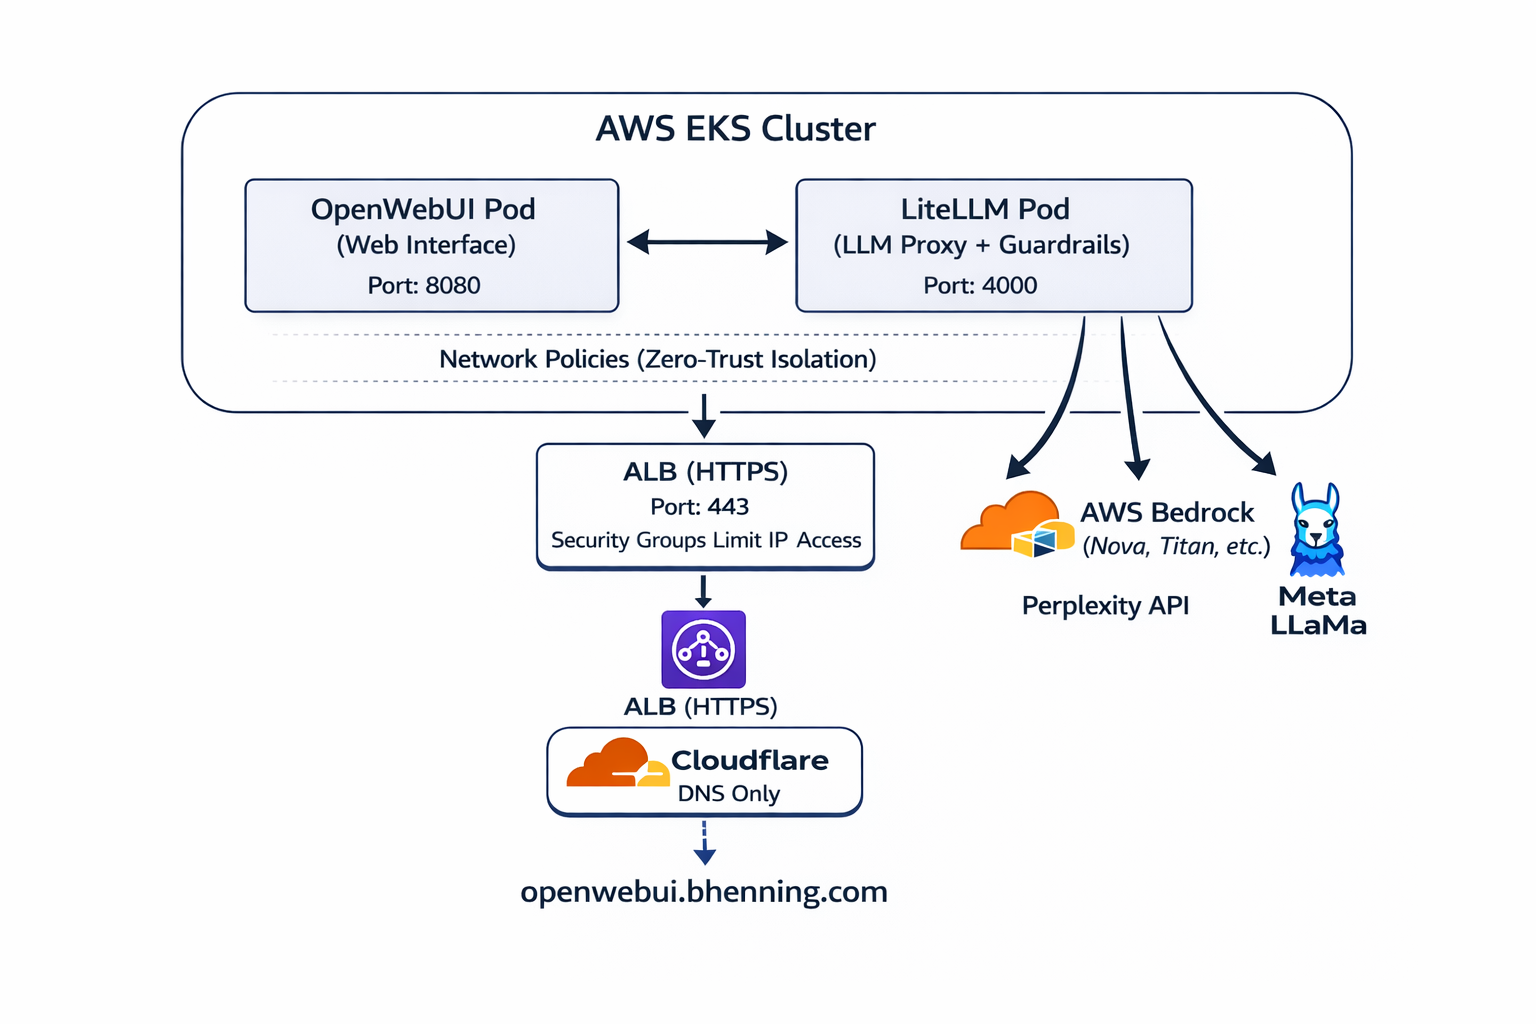
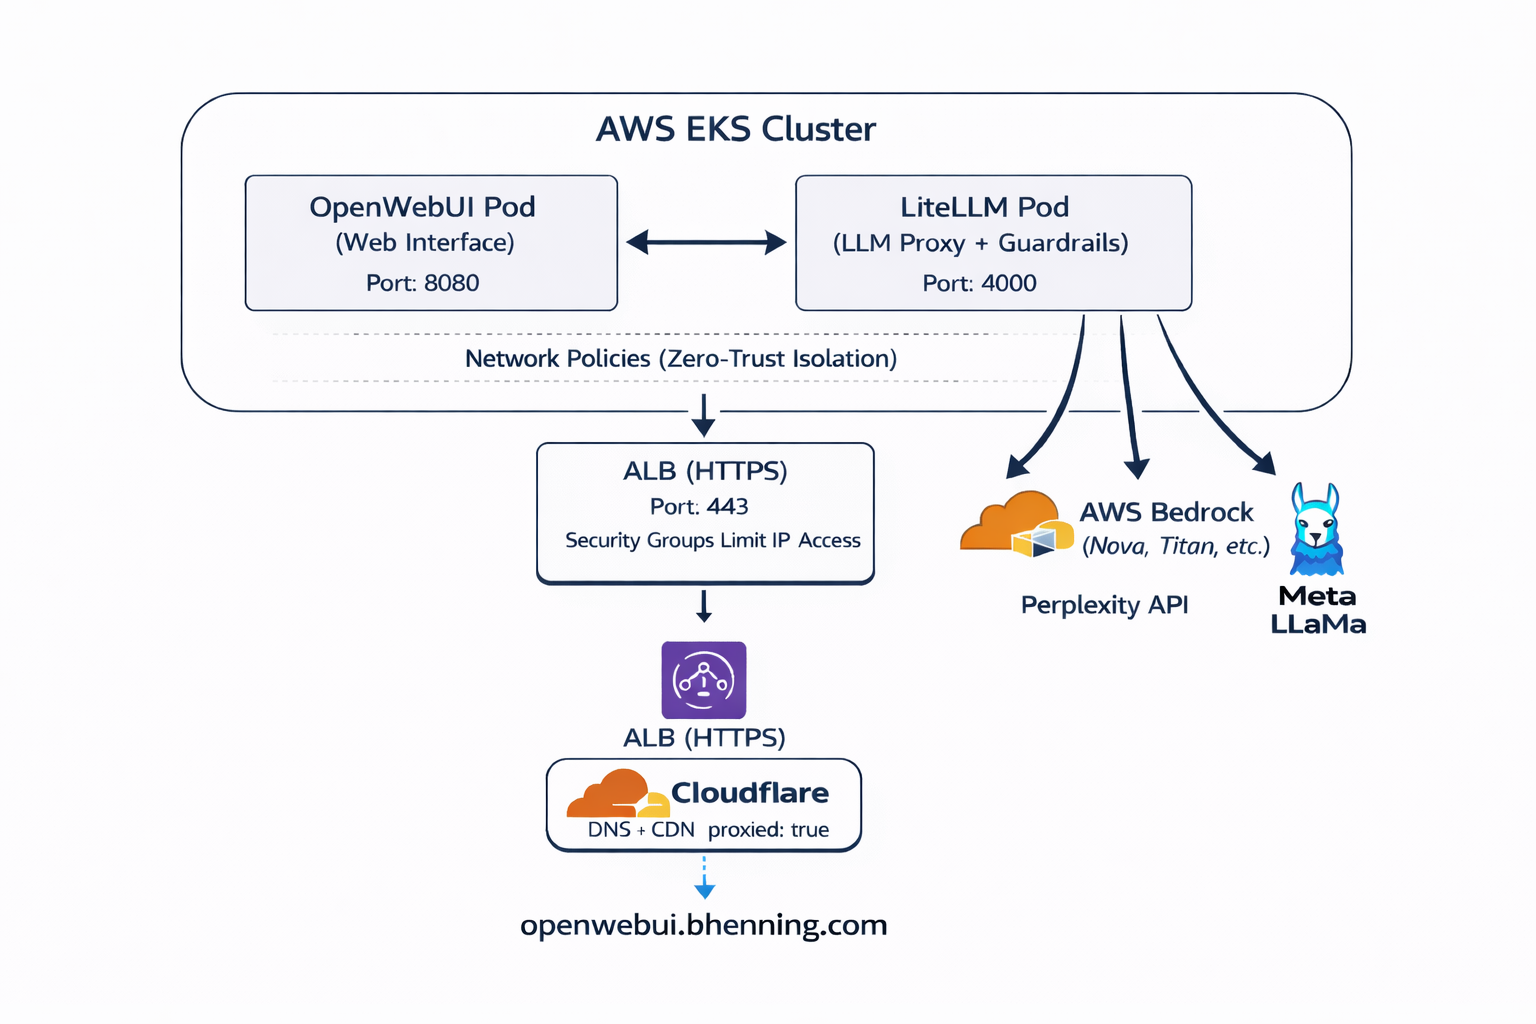
Update LLM Gateway pages to reflect CloudFlare proxy mode as production state
All pages now accurately reflect that CloudFlare is running in proxy mode
(proxied: true) with DDoS/WAF protection enabled, not DNS-only mode.

Changes:
- architecture/page.tsx: Change from "DNS-only mode" to "CloudFlare Proxy Mode (DDoS/WAF enabled)"
- deployment/page.tsx: Update Step 11 to show proxy mode as production setup
- features/page.tsx: Update security features to show proxy mode and dual security groups
- requirements/page.tsx: Update Objective 1 from "CloudFlare DNS in DNS-only mode" to "proxy mode with origin certificates"
- security/page.tsx: Update TLS/SSL for origin certificates, access control for proxy mode
- summary/page.tsx: Update DNS & HTTPS from "DNS-only setup with optional proxy mode" to "proxy mode with origin certificates"
- architecture.png: Refresh diagram to reflect proxy mode configuration
- Add new image assets: bunny.png, duck.png, llm-gateway-logo.png

diff --git a/app/llm-gateway/security/page.tsx b/app/llm-gateway/security/page.tsx
@@ -403,15 +403,16 @@ export default function SecurityPage() {
               TLS/SSL Encryption
             </h2>
             <p>
-              End-to-end encryption with ACM certificates and ALB SSL
-              termination protects data in transit.
+              End-to-end encryption with CloudFlare Origin Certificates and ALB
+              SSL termination protects data in transit through CloudFlare's global edge network.
             </p>
 
             <h3>Encryption Details</h3>
             <ul>
-              <li>ACM certificate for openwebui.bhenning.com</li>
+              <li>CloudFlare Origin Certificate (15-year validity)</li>
+              <li>CloudFlare Universal SSL for client connections</li>
+              <li>Full (strict) SSL/TLS mode validates origin</li>
               <li>TLS 1.3 security policy on ALB</li>
-              <li>Automatic certificate renewal</li>
               <li>HTTP disabled (HTTPS only)</li>
             </ul>
           </div>
@@ -419,35 +420,36 @@ export default function SecurityPage() {
           <div className="security-card">
             <h2>
               <span className="icon">🌍</span>
-              Access Control & DNS
+              Access Control & CloudFlare
             </h2>
             <p>
-              ISP-based access control restricts HTTPS access to authorized IP
-              ranges via ALB security groups, with optional CloudFlare proxy
-              mode available via origin certificates.
+              CloudFlare proxy mode (currently enabled) provides DDoS protection,
+              WAF, and bot detection while hiding the origin ALB. Dual security
+              group architecture supports both proxy and direct access modes.
             </p>
 
-            <h3>ISP-Based Access Control</h3>
+            <h3>CloudFlare Proxy Mode (Currently Active)</h3>
             <ul>
-              <li>
-                ALB security groups restrict HTTPS to authorized IP ranges
-                (FREE)
-              </li>
-              <li>On-demand IP allowlisting with make eks-allow-ip</li>
-              <li>HTTPS access limited to authorized CIDR ranges</li>
+              <li>DDoS protection and Layer 7 WAF enabled</li>
+              <li>Bot detection and rate limiting at edge</li>
+              <li>Origin ALB hostname hidden from public</li>
+              <li>Edge caching at 300+ global data centers</li>
+              <li>HTTP/3 and Brotli compression support</li>
             </ul>
 
-            <h3>CloudFlare DNS (Default)</h3>
+            <h3>Dual Security Group Architecture</h3>
             <ul>
-              <li>DNS-only mode recommended (proxied: false)</li>
-              <li>Automated DNS setup via CloudFlare API</li>
-              <li>Optional proxy mode documented in CLOUDFLARE-CERT.md</li>
+              <li>CloudFlare SG: Allows CloudFlare IP ranges (active)</li>
+              <li>ISP SG: Allows specific ISP/office IPs (inactive)</li>
+              <li>On-demand IP allowlisting: make eks-allow-ip SG=cloudflare|isp</li>
+              <li>Seamless switching between proxy and direct modes</li>
             </ul>
 
             <div className="highlight-box">
-              <strong>Defense in Depth:</strong> ISP-based access control via
-              ALB security groups provides free IP allowlisting, while optional
-              CloudFlare proxy mode adds DDoS/WAF protection if enabled.
+              <strong>Defense in Depth:</strong> CloudFlare proxy mode provides
+              enterprise-grade DDoS protection and WAF, while the dual security
+              group architecture enables flexible access control and easy
+              switching between proxy and direct access modes.
             </div>
           </div>
 
@@ -554,10 +556,10 @@ export default function SecurityPage() {
           <div className="layer">
             <h3>Layer 1: Network Perimeter</h3>
             <p>
-              ALB with ACM TLS termination provides HTTPS access. ALB security
-              groups restrict access to authorized IP ranges, and CloudFlare DNS
-              runs in DNS-only mode by default with optional proxy mode
-              available via origin certificates.
+              CloudFlare edge network with proxy mode enabled provides the first
+              layer of defense with DDoS protection, WAF, and bot detection. ALB
+              with CloudFlare Origin Certificate handles TLS termination, while
+              security groups allow only CloudFlare IP ranges to reach the origin.
             </p>
           </div>
 

diff --git a/app/llm-gateway/deployment/page.tsx b/app/llm-gateway/deployment/page.tsx
@@ -1123,16 +1123,16 @@ ecr_image_tag = "latest"`}</pre>
 
           <div className="step">
             <div className="step-number">11</div>
-            <h2>Configure DNS</h2>
+            <h2>Configure DNS & CloudFlare Proxy</h2>
             <p>
-              Create a CNAME record in CloudFlare in DNS-only mode (proxied:
-              false). The automated approach uses the CloudFlare API to create
-              and manage DNS records. Alternatively, configure manually in the
-              CloudFlare dashboard. Optional proxy mode is documented in
-              CLOUDFLARE-CERT.md.
+              Set up CloudFlare with proxy mode enabled for DDoS protection, WAF,
+              and edge caching. Production deployments use CloudFlare Origin
+              Certificates for secure end-to-end encryption. See CLOUDFLARE-CERT.md
+              for complete setup instructions including certificate generation and
+              security group configuration.
             </p>
 
-            <div className="command-label">Automated Setup (Recommended):</div>
+            <div className="command-label">Quick DNS Setup (for initial deployment):</div>
             <div className="code-block">
               <button
                 className={`copy-button ${copiedIndex === 110 ? "copied" : ""}`}
@@ -1147,14 +1147,17 @@ ecr_image_tag = "latest"`}</pre>
             </div>
 
             <div className="command-label">
-              Manual Setup (Alternative) - In CloudFlare dashboard:
+              Production Setup - CloudFlare Proxy Mode (Current):
             </div>
             <div className="output-block">
-              <pre>{`Type: CNAME
-Name: openwebui
-Target: <ALB hostname from previous step>
-Proxy status: DNS only (proxied: false)
-TTL: Auto`}</pre>
+              <pre>{`1. Generate CloudFlare Origin Certificate (15-year validity)
+2. Import certificate to AWS ACM
+3. Update Terraform with certificate ARN
+4. Switch security groups to CloudFlare mode
+5. Enable proxy in CloudFlare (orange cloud)
+6. Verify HTTPS connectivity
+
+See CLOUDFLARE-CERT.md for detailed step-by-step guide`}</pre>
             </div>
           </div>
 

diff --git a/app/llm-gateway/architecture/page.tsx b/app/llm-gateway/architecture/page.tsx
@@ -379,11 +379,10 @@ export default function ArchitecturePage() {
             <ul>
               <li>VPC with public & private subnets</li>
               <li>Single NAT Gateway (cost optimized)</li>
-              <li>Application Load Balancer (ALB) with ACM cert</li>
-              <li>CloudFlare DNS (DNS-only mode)</li>
+              <li>Application Load Balancer (ALB) with CloudFlare Origin cert</li>
+              <li>CloudFlare Proxy Mode (DDoS/WAF enabled)</li>
               <li>
-                ALB security groups restrict HTTPS access to authorized IP
-                ranges
+                ALB security groups allow CloudFlare IP ranges only
               </li>
               <li>Zero-trust NetworkPolicies for pod isolation</li>
             </ul>
@@ -475,8 +474,8 @@ export default function ArchitecturePage() {
           </div>
 
           <div className="tech-row">
-            <div className="tech-label">DNS</div>
-            <div className="tech-value">CloudFlare (DNS-only, no proxy)</div>
+            <div className="tech-label">DNS & Security</div>
+            <div className="tech-value">CloudFlare Proxy Mode (DDoS/WAF/Edge Caching)</div>
           </div>
 
           <div className="tech-row">

diff --git a/app/llm-gateway/features/page.tsx b/app/llm-gateway/features/page.tsx
@@ -527,12 +527,13 @@ export default function FeaturesPage() {
               </li>
               <li>Non-root containers (UID 1000)</li>
               <li>
-                ISP-Based Access Control: ALB security groups restrict HTTPS
-                access to authorized IP ranges (FREE)
+                CloudFlare Proxy Mode: DDoS protection, WAF, bot detection, and
+                edge caching (currently enabled)
               </li>
-              <li>On-demand IP allowlisting (make eks-allow-ip, eks-revoke-ip, eks-list-ips)</li>
+              <li>Dual Security Groups: CloudFlare and ISP modes with flexible switching</li>
+              <li>On-demand IP allowlisting (make eks-allow-ip SG=cloudflare|isp)</li>
               <li>AWS Metadata Service blocking (SSRF prevention)</li>
-              <li>HTTPS/TLS with ACM certificate management</li>
+              <li>HTTPS/TLS with CloudFlare Origin Certificates (15-year validity)</li>
               <li>Secrets Manager integration for API keys</li>
             </ul>
           </div>

diff --git a/app/llm-gateway/requirements/page.tsx b/app/llm-gateway/requirements/page.tsx
@@ -580,7 +580,10 @@ export default function RequirementsPage() {
               <ul>
                 <li>AWS EKS with ALB HTTPS termination</li>
                 <li>Zero-trust NetworkPolicies for pod isolation</li>
-                <li>CloudFlare DNS in DNS-only mode</li>
+                <li>
+                  CloudFlare proxy mode with origin certificates (DDoS/WAF
+                  enabled)
+                </li>
                 <li>Auto-scaling node groups with SPOT instances</li>
                 <li>Terraform-managed infrastructure</li>
               </ul>

diff --git a/app/llm-gateway/summary/page.tsx b/app/llm-gateway/summary/page.tsx
@@ -405,8 +405,9 @@ export default function SummaryPage() {
                 DNS & HTTPS
               </h3>
               <p>
-                CloudFlare DNS-only setup with automated verification, plus
-                optional proxy mode via origin certificates
+                CloudFlare proxy mode with origin certificates, providing DDoS
+                protection, WAF, and edge caching with automated DNS
+                verification
               </p>
             </div>
           </div>
